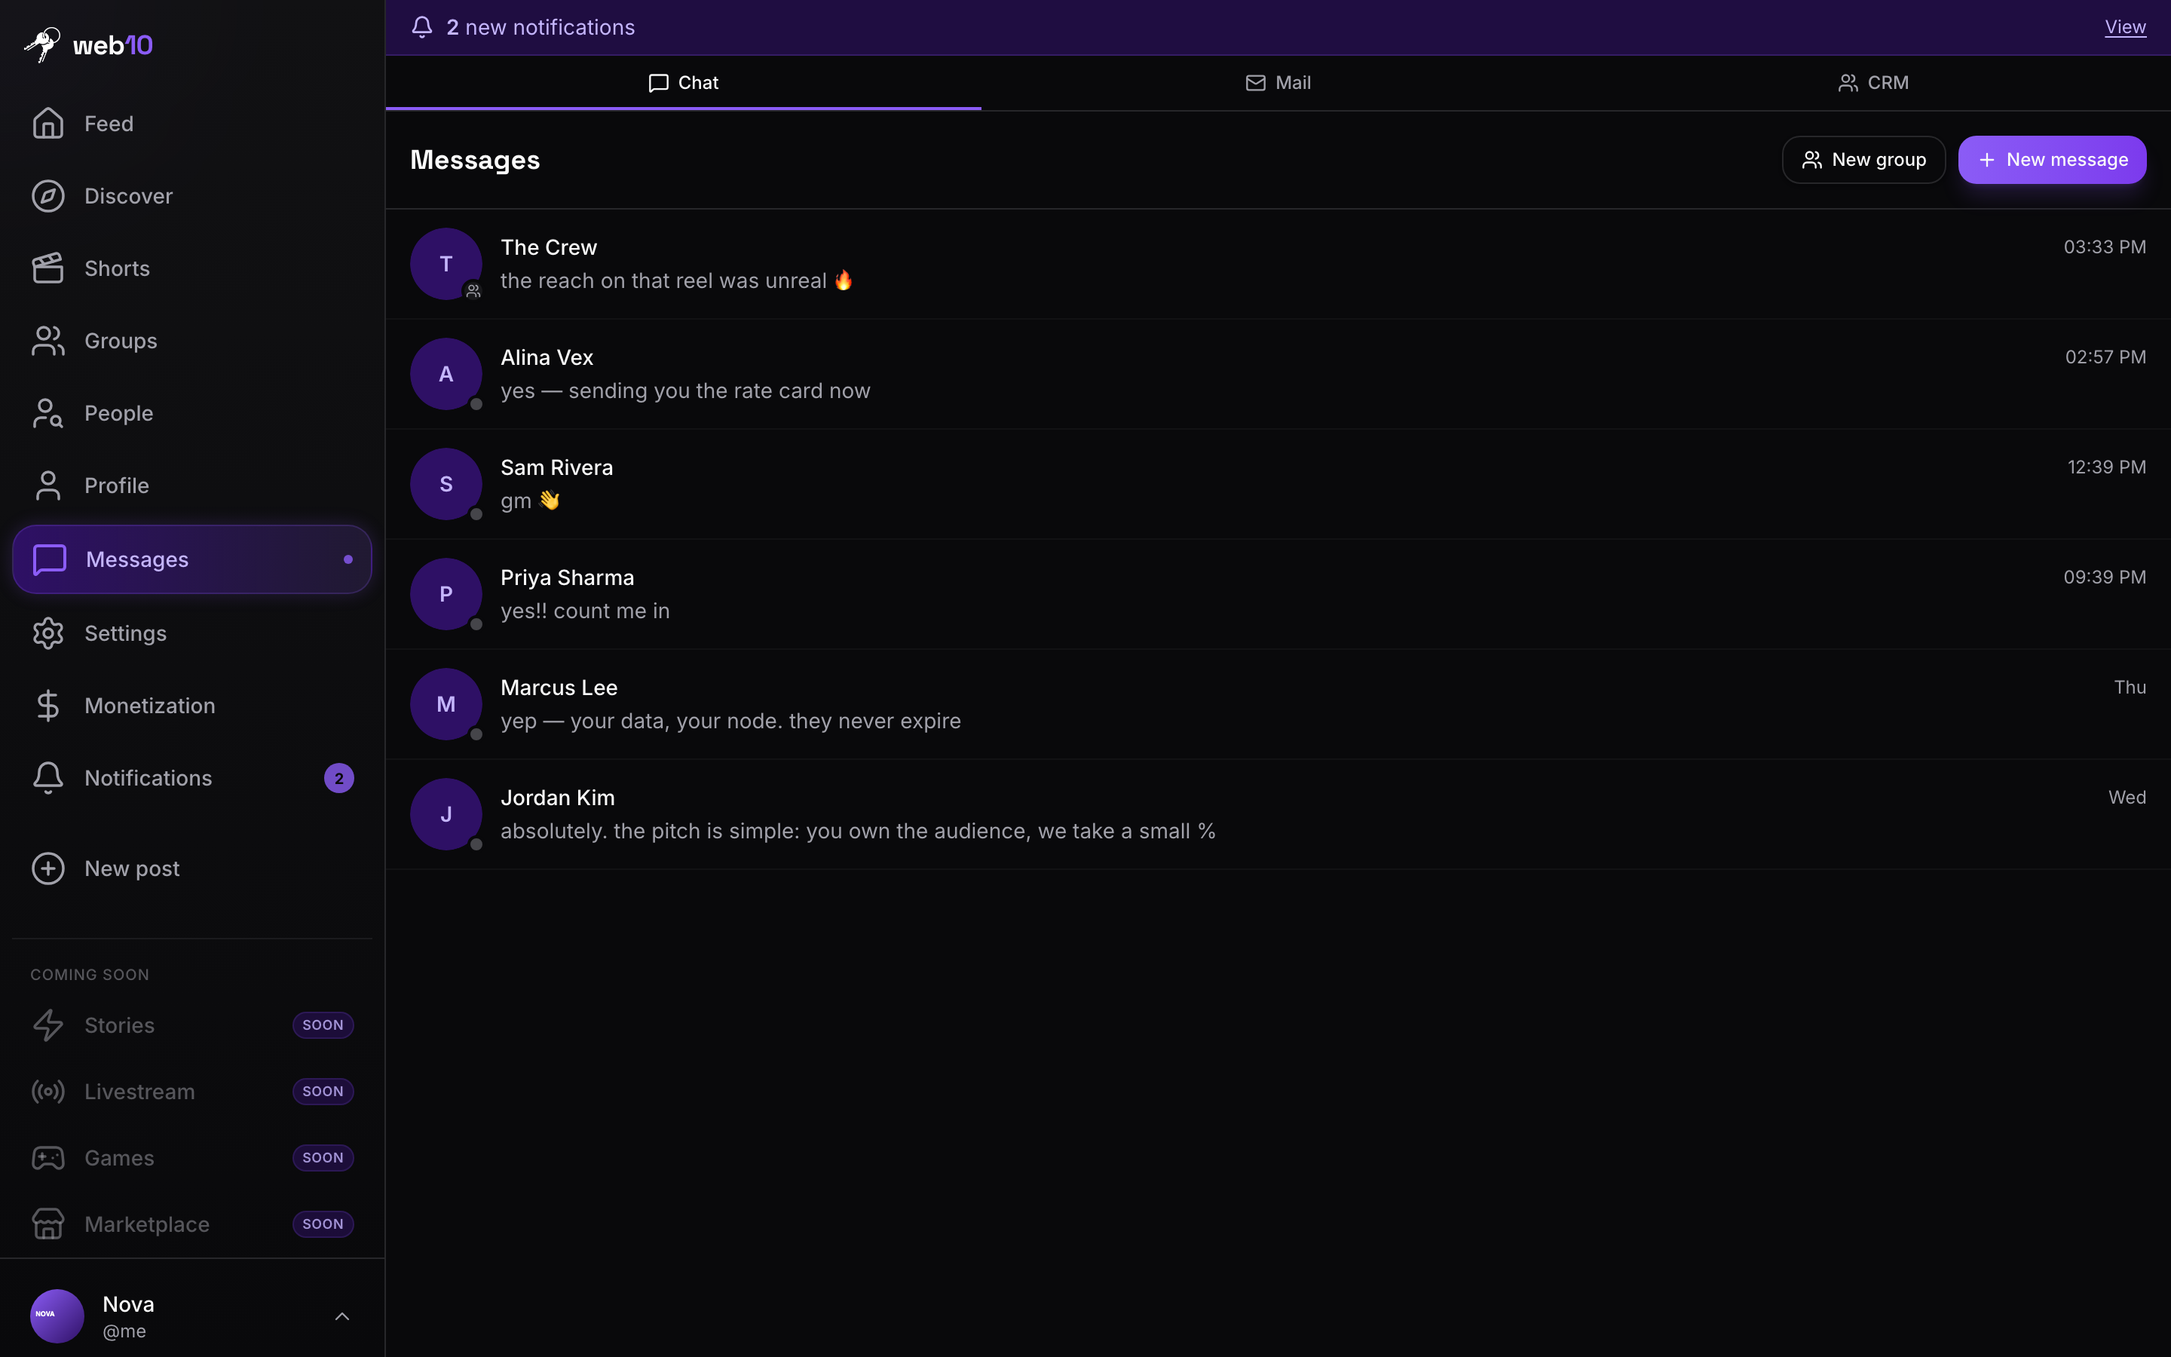
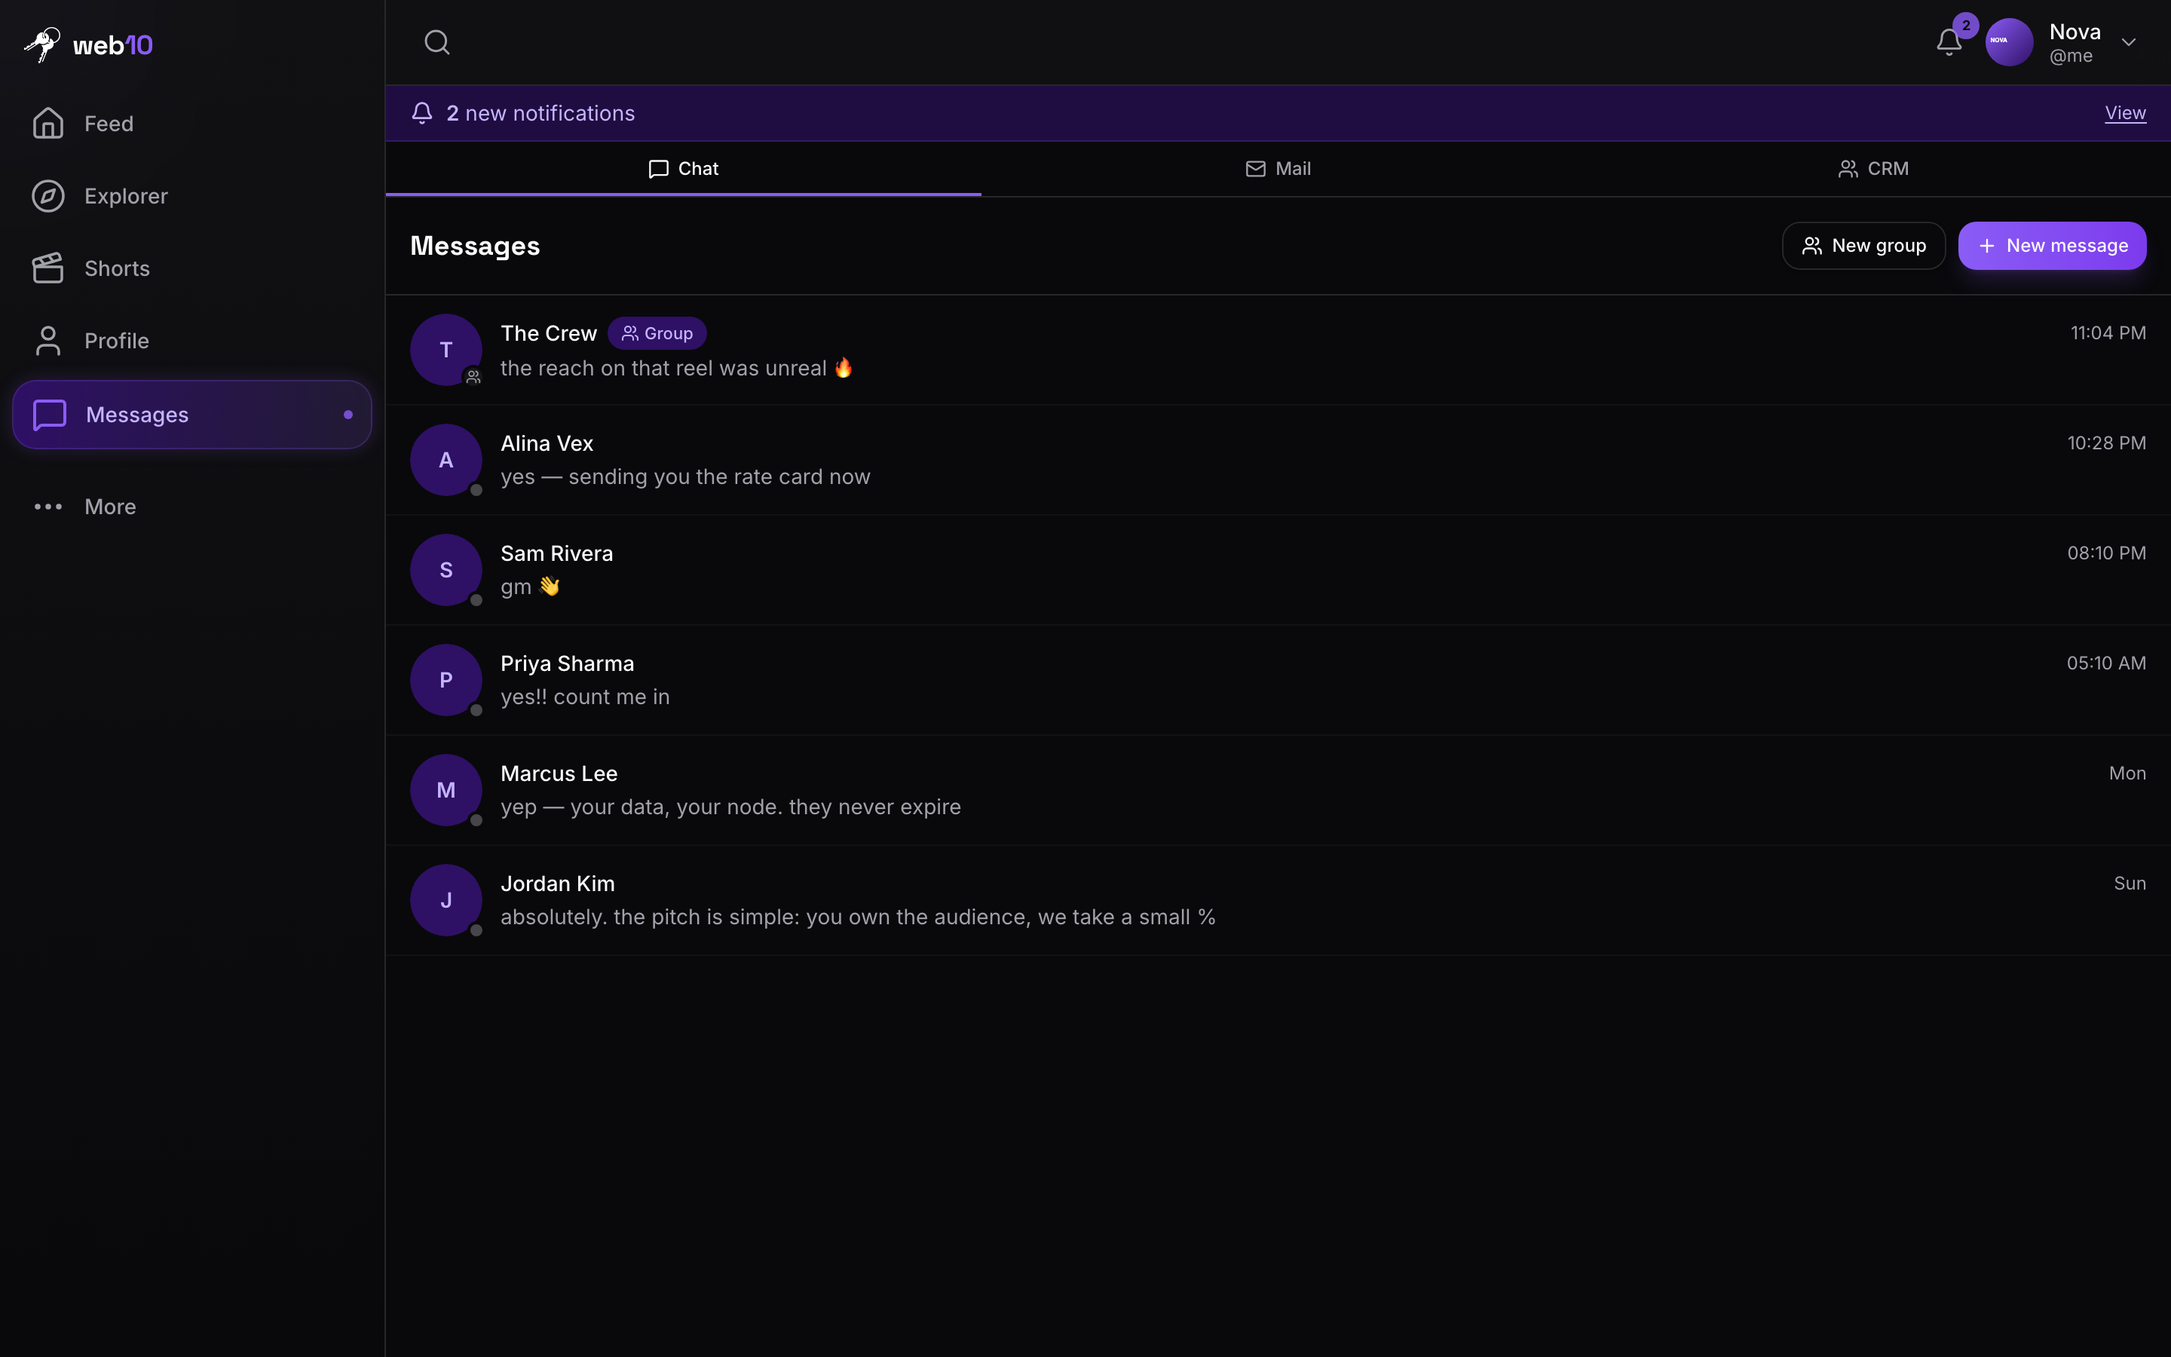
feat(web10-social): the Messages surface marks group chats as groups — explicit Group badge on the list row + thread header (3.144.0)

diff --git a/marketing/web10-social/src/components/Chat/DmsScreen.tsx b/marketing/web10-social/src/components/Chat/DmsScreen.tsx
@@ -1416,8 +1416,14 @@ export default function DmsScreen() {
                 </AvatarFallback>
               </Avatar>
               <div className="min-w-0">
-                <span className="font-medium text-sm text-foreground truncate block" data-testid="group-chat-name">
-                  {groupFace?.name || '…'}
+                <span className="flex items-center gap-1.5 min-w-0">
+                  <span className="font-medium text-sm text-foreground truncate" data-testid="group-chat-name">
+                    {groupFace?.name || '…'}
+                  </span>
+                  <Badge variant="brand" className="normal-case tracking-normal shrink-0" data-testid="group-chat-header-badge">
+                    <Users className="w-3 h-3 mr-1" aria-hidden="true" />
+                    Group
+                  </Badge>
                 </span>
                 <span className="text-xs text-muted-foreground/60 truncate block" data-testid="group-chat-members">
                   {groupMembers.length} member{groupMembers.length === 1 ? '' : 's'}
@@ -1698,9 +1704,17 @@ export default function DmsScreen() {
                   )}
                 </div>
                 <div className="flex-1 min-w-0">
-                  <div className="flex items-center justify-between">
-                    <span className="font-medium text-sm text-foreground truncate">{item.name}</span>
-                    <span className="text-xs text-muted-foreground ml-2 shrink-0">
+                  <div className="flex items-center justify-between gap-2">
+                    <span className="flex items-center gap-1.5 min-w-0">
+                      <span className="font-medium text-sm text-foreground truncate">{item.name}</span>
+                      {!isDm && (
+                        <Badge variant="brand" className="normal-case tracking-normal shrink-0" data-testid="group-chat-type-badge">
+                          <Users className="w-3 h-3 mr-1" aria-hidden="true" />
+                          Group
+                        </Badge>
+                      )}
+                    </span>
+                    <span className="text-xs text-muted-foreground shrink-0">
                       {lastMsg ? formatTime(lastMsg.sent_at) : ''}
                     </span>
                   </div>

diff --git a/marketing/web10-social/src/__tests__/socialScreens.test.tsx b/marketing/web10-social/src/__tests__/socialScreens.test.tsx
@@ -637,6 +637,27 @@ describe('DmsScreen', () => {
     expect(screen.getByTestId('group-chat-item')).toHaveTextContent('The Crew');
     // A group row carries the group badge (not a presence dot).
     expect(screen.getByTestId('group-chat-badge')).toBeInTheDocument();
+    // An explicit "Group" type badge makes it clear this is a group message.
+    expect(screen.getByTestId('group-chat-type-badge')).toHaveTextContent('Group');
+  });
+
+  it('DM conversation rows do not carry a Group badge', async () => {
+    const { listConversations, getMyGroupChats } = await import('@/data');
+    vi.mocked(listConversations).mockResolvedValueOnce([
+      'test.localhost/testuser--test.localhost/alice',
+    ]);
+    vi.mocked(getMyGroupChats).mockResolvedValueOnce([]);
+
+    const { default: DmsScreen } = await import('@/components/Chat/DmsScreen');
+    render(
+      <MemoryRouter initialEntries={['/messages']}>
+        <DmsScreen />
+      </MemoryRouter>,
+    );
+    await waitFor(() => {
+      expect(screen.getByTestId('dm-conversation-item')).toBeInTheDocument();
+    });
+    expect(screen.queryByTestId('group-chat-type-badge')).not.toBeInTheDocument();
   });
 
   it('renders the group thread view — name header, member count, per-sender attribution (group-chat.md)', async () => {
@@ -665,6 +686,8 @@ describe('DmsScreen', () => {
     });
     expect(screen.getByTestId('group-chat-name')).toHaveTextContent('The Crew');
     expect(screen.getByTestId('group-chat-members')).toHaveTextContent('3 members');
+    // The header carries an explicit "Group" badge next to the name.
+    expect(screen.getByTestId('group-chat-header-badge')).toHaveTextContent('Group');
     // Per-sender attribution: the inbound message (alice) shows the sender name;
     // my own message (testuser) does not (isMe). Exactly one sender label.
     expect(screen.getByTestId('dm-message-sender')).toHaveTextContent('alice');

diff --git a/marketing/web10-social/screenshots/harness/entry.tsx b/marketing/web10-social/screenshots/harness/entry.tsx
@@ -87,7 +87,9 @@ const initialRoute =
   : screen === 'groups-detail' ? '/groups/web10%2Fgroups%2Fusers%2Fnova%2Fsynthwave-sessions'
   : screen === 'groups-media' ? '/groups/web10%2Fgroups%2Fusers%2Fnova%2Fsynthwave-sessions?tab=media'
   : screen === 'groups-detail-noface' ? '/groups/web10%2Fgroups%2Fusers%2Fkai%2Flofi-study-room'
-  : screen === 'groups-create' ? '/groups/web10%2Fgroups%2Fusers%2Fme%2Fnew-group?edit=1'
+   : screen === 'groups-create' ? '/groups/web10%2Fgroups%2Fusers%2Fme%2Fnew-group?edit=1'
+   : screen === 'chat-group-thread'
+     ? '/messages/group/web10%2Fgroups%2Fusers%2Fnova%2Fchat-the-crew'
   : screen === 'people' ? '/people'
   : screen === 'profile' ? '/u/me'
   : screen === 'profile-feed' ? '/u/me?view=feed'

diff --git a/knowledge/changelogs/CHANGELOG.md b/knowledge/changelogs/CHANGELOG.md
@@ -1,3 +1,6 @@
+3.144.0 || 22.09.2026
+feat(web10-social) + test(web10-social) + docs(kb) + chore(screenshots): **a group chat in Messages now reads as a group — an explicit "Group" badge on the list row and the thread header** — operator pass (22.09.2026, screenshot of the Messages list): "on the messages tab, this should be clear it is a group message!" The disease: a group-chat row in the conversation list looked like a DM row — same avatar shape, same name, same preview; the only tell was a tiny `Users` glyph on the avatar's corner badge, which reads as decoration, not a type marker. And inside the thread, the header showed the group name + "N members" but nothing that said *group* — a name like "The Crew" is indistinguishable from a person's display name at a glance. **The fix (`DmsScreen.tsx`, tokens only, no logic):** (1) **the list row** — a group-chat row now carries an explicit **"Group" badge** (the shared `Badge` component, `variant="brand"` — the violet pill the app already uses for type/role markers, e.g. the group join-policy + owner badges) with a `Users` glyph, next to the name; DM rows never render it. The avatar's corner glyph stays (it's the row's compact marker; the badge is the explicit one). (2) **the thread header** — the same badge sits next to the group name in the group-chat header, so the thread itself reads as a group conversation, not a DM. **Tests:** `socialScreens.test.tsx` +1 (a DM conversation row carries no Group badge — the negative half of the marker) + the two existing group-chat tests re-pinned (the list row's badge + the header's badge). 918 web10-social tests green, `tsc --noEmit` clean. **KB:** `social/group-chat.md` (the list + the thread header now name the explicit "Group" badge). **Screenshots:** `chat-{desktop,375}.png` (the list — "The Crew" + Group badge, DM rows clean) + new `chat-group-thread-{desktop,375}.png` captures (the harness gains a `chat-group-thread` screen entry, the seeded "The Crew" chat's thread).
+
 3.143.0 || 22.09.2026
 feat(web10-social) + feat(marketing-ui): **the explorer / groups / group detail match the profile's width on desktop, the Groups tab gains My Groups | Discover sub-tabs, and the marketing /trending drops its two full-bleed control bands** — operator pass (22.09.2026, four screenshots): "that is my profile, look how great that looks on desktop" + "explorer tab here looks soo narrow" + "people and groups are EVEN more narrow … they should all be using the full screen size on desktop, and look great like that profile page" + "when i click into a group, that is ABSURDLY small" + "groups doesnt have the tabs that people has on discover, just says my groups, should have my groups and a discover tab to find new groups / search them up" + (earlier, /trending) "this two sets of bars going all the way horizontally across the screen looks like shit no?" **The width fix (CSS-only, tokens only):** the **profile** (`UserProfileScreen.tsx`) runs `max-w-3xl` — the wide reference the operator likes. But the **explorer** (`DiscoverScreen.tsx`), the **group detail** (`GroupDetailScreen.tsx`, 4 spots), and the **standalone /groups** (`GroupsScreen.tsx`) were all stuck at `md:max-w-2xl` — a step narrower, so they left dead space on both sides on a 1440px desktop (3.142.0 had bumped the explorer to `max-w-2xl`, still below the profile). All four now run `md:max-w-3xl`, matching the profile exactly; the `md:` prefix leaves 375px mobile full-bleed (untouched). **The Groups sub-tabs (the feature):** the Explorer/Groups subtab (`DiscoverGroupsTab.tsx`) used to stack "My Groups" (your memberships) above the public directory with no way to separate them. Now it has **My Groups | Discover** sub-tabs (mirroring the People tab's Following/Followers/Discover pattern), deep-linkable via `?groupTab=` (my is the bare URL). **My Groups** (default) = your community memberships (the `MyGroupRow` cards); **Discover** = the public directory (find + search new groups — the tag chips + the top-bar `?q=` search, which now filters the directory). The `?q=` query chip moved above the sub-tabs (the People tab's placement) so it survives a tab switch. **The /trending band fix (`Trending.tsx`):** the Posts/People/Groups tab row and the Hot Gossip/Video view-toggle row were full-bleed bands (`border-b` + `bg-surface/50` stretching edge-to-edge) while everything else was a centered column — two hard horizontal rules slicing the whole screen. Both drop the band styling and now float inside the `max-w-4xl` content column (the social app's Explorer has no such bands). **Tests:** `groupsScreens.test.tsx` re-pinned (`renderTab` defaults to the Discover sub-tab + 3 explicit `?groupTab=discover` entries; the My Groups section keeps its header); 917 web10-social + 272 marketing-ui green, both `tsc` clean. **Verification:** screenshot harness captures the explorer, groups (My Groups + Discover), and group detail at 1440px (all now profile-width) + 375px (unchanged).
 

diff --git a/knowledge/strategy/parallel-execution.md b/knowledge/strategy/parallel-execution.md
@@ -195,6 +195,8 @@ Both seams are now retired (3.11.0 auth, 3.12.0 data); what remains is
 the hls.js player and the e2e gauntlet that proves it end-to-end.
  The decision bite gated the seam bites — docs first.
 
+- [✓ 3.144.0] **Group chats in Messages read as groups — the explicit "Group" badge** (operator, screenshot of the Messages list: "on the messages tab, this should be clear it is a group message!"). A group-chat conversation row looked like a DM row (the only tell was the tiny `Users` glyph on the avatar corner), and the thread header showed name + "N members" with nothing that said *group*. `DmsScreen.tsx`: the group-chat **list row** now carries an explicit "Group" badge (shared `Badge`, `variant="brand"` + `Users` glyph, next to the name — DM rows never render it) and the **group thread header** carries the same badge next to the name. 918 web10-social green (+1 new DM-negative test, 2 re-pinned), `tsc` clean. KB `social/group-chat.md` (list + header badge). Screenshots `chat-{desktop,375}` + new `chat-group-thread-{desktop,375}` (harness `chat-group-thread` screen entry).
+
 - [✓ 3.137.0] **Messaging from a profile goes straight to the DM thread** (operator: "when clicking to message someone from their profile, it should fill in the provider, it is clear their provider from their profile, and it should just show the dm view … why is there this weird message view should go straight to dm" + "it could take you straight here but with an empty chat … if the first time messaging them"). The profile's Message button dropped the recipient's provider on the `/messages?to=` deep link, so DmsScreen fell back to the "New message" compose picker (username + "Provider (optional)" + message box) — redundant when the profile already knows the full identity. `UserProfileScreen.tsx` Message button → `/messages?to={username}&provider={provider}`; the DmsScreen `?to=` handler, when a provider is present, derives the canonical conversation key and navigates straight to `/messages/{conv}` (the DM thread view — empty chat for a first message), no compose/picker. Bare `?to=` keeps the old fallback. 894 web10-social green (incl. the deep-link regression), `tsc` clean.
 
 - [✓ 3.116.1] **Groups carry a platform-level `tags` column — web10-social classifies its groups by tag (D78)** (operator, after the "followers groups showing in My Groups" bug: "is this a fundamental protocol flaw? should groups themselves have tags? … this would be an issue for any app architecture not just social media. we could add tags to the groups in clickhouse, make a clickhouse upgrade right?"). **KB-first (`groups/overview.md` "Group Tags" + D78):** `group_contracts` gains a **`tags` column** (`Array(String)`, default `[]`) — the group-primitive analog of `documents.tags`; the platform stores + matches them (`has(tags, …)`), the app decides what they mean. The group-side of the existing doc-tag primitive; the `discoverable` flag is the precedent. It makes group *selection* a server-side tag read instead of a client-side id-pattern blocklist (which leaked followed users' followers groups + group chats). web10-social scheme (namespaced): `web10-social-group` / `-followers` / `-dm` / `-chat`. The group **tag** is the *selection* classifier; the face **`kind`** (D77) is a *render* hint. **Built (cross-lane: api + sdk + web10-social):** (1) ClickHouse — `group_contracts.tags` (boot ALTER); `create_group`/`update_group`/`get_group` carry tags; `get_user_groups(member, tags)` server-side `has(gc.tags, …)` filter. (2) API — `CreateGroup`/`UpdateGroup`/`ListMyGroups` models + create/update/list endpoints. (3) SDK — `V3Group.tags`; `createGroup`/`updateGroup`/`getMyGroups({ tags })`. (4) web10-social — `GROUP_TAG` constants; tag at creation (followers/dm/community/chat); `getMyCommunityGroups` = `getMyGroups({ tags: ['web10-social-group'] })`, `getMyGroupChats` = `getMyGroups({ tags: ['web10-social-chat'] })` — server-side tag reads, no client-side pattern matching (supersedes the 3.115.1 `isFollowersGroup` fix for the Groups surface). (5) Migration — one-time, sentinel-gated `_migrate_group_tags_backfill` seeds legacy untagged groups from their id shape. **Tests:** API 961 green (create/update/list-by-tag + the migration), SDK 125 green (tag threading), web10-social 818 green + `tsc` clean (select-by-tag + create tagging). Lane: `social-v3` + platform (api/sdk).

diff --git a/knowledge/knowledge-base/web10-v3/social/group-chat.md b/knowledge/knowledge-base/web10-v3/social/group-chat.md
@@ -121,7 +121,9 @@ thread.
 The conversation list shows **DMs and group chats together**, sorted by
 last-message recency (the existing DM sort). A group-chat row shows the group
 **name** (not a person's name), a group avatar (the face, or a `Users`-glyph
-fallback when unset), and the last-message preview. It is deep-linkable at
+fallback when unset), and the last-message preview. Next to the name it carries
+an explicit **"Group" badge** (a `Users`-glyph pill) so a group chat reads as a
+group message at a glance — a DM row never shows it. It is deep-linkable at
 `/messages/group/{groupId}` (the splat route; the `group/` prefix distinguishes
 it from a DM key, which is `provider/user--provider/user`).
 
@@ -137,8 +139,10 @@ note to self, not a chat).
 
 Same shell as a DM thread, with three differences:
 1. **Header** — the group **name** (not a person's name) + a member count
-   ("N members"), tappable to a member list. No presence dot (presence is a
-   1:1 concept; group presence is a follow-up).
+   ("N members"), tappable to a member list. An explicit **"Group" badge** sits
+   next to the name (the same pill the list row carries), so the thread reads
+   as a group conversation, not a DM. No presence dot (presence is a 1:1
+   concept; group presence is a follow-up).
 2. **Per-sender bubbles** — every inbound bubble shows the sender's avatar +
    name above the text; the reader's own bubbles are right-aligned with no name.
 3. **No "delete conversation" for non-owners** — only the owner deletes the
